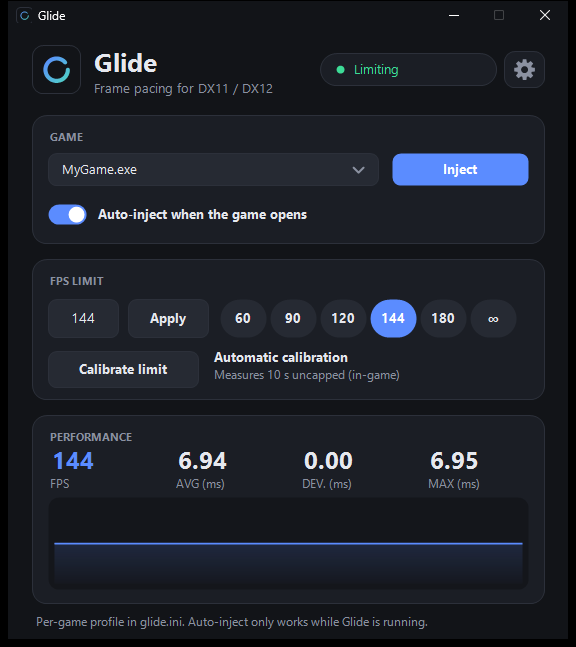
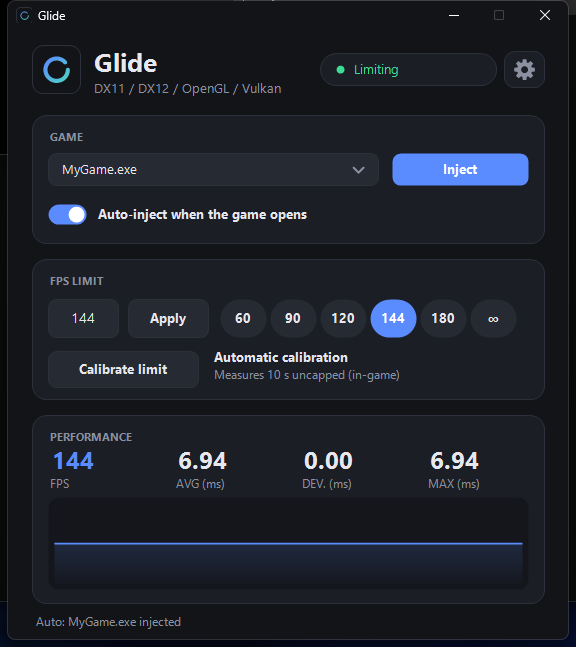
Update README screenshots; About text mentions OpenGL/Vulkan

diff --git a/lang.h b/lang.h
@@ -78,7 +78,7 @@ static const wchar_t* const kStr[S_COUNT][NLANG] = {
 /* UP_ERR */ { L"Could not check for updates", L"No se pudo buscar actualizaciones", L"Não foi possível verificar atualizações", L"更新を確認できませんでした", L"无法检查更新", L"업데이트를 확인할 수 없습니다" },
 /* UP_ERR2 */ { L"Download failed or could not be verified", L"La descarga falló o no se pudo verificar", L"Falha no download ou não foi possível verificar", L"ダウンロードに失敗、または検証できませんでした", L"下载失败或无法验证", L"다운로드 실패 또는 검증 불가" },
 /* AUTOUP */ { L"Check for updates automatically", L"Buscar actualizaciones automáticamente", L"Verificar atualizações automaticamente", L"自動的に更新を確認", L"自动检查更新", L"업데이트 자동 확인" },
-/* ABOUT_DESC */ { L"Frame limiter with precise frame pacing for DX11 / DX12 games.", L"Limitador de FPS con frame pacing preciso para juegos DX11 / DX12.", L"Limitador de FPS com frame pacing preciso para jogos DX11 / DX12.", L"DX11 / DX12 ゲーム向けの高精度フレームペーシング対応FPSリミッター。", L"面向 DX11 / DX12 游戏的精准帧率节奏限制器。", L"DX11 / DX12 게임용 정밀 프레임 페이싱 FPS 제한 도구." },
+/* ABOUT_DESC */ { L"Frame limiter with precise frame pacing for DX11 / DX12 / OpenGL / Vulkan games.", L"Limitador de FPS con frame pacing preciso para juegos DX11 / DX12 / OpenGL / Vulkan.", L"Limitador de FPS com frame pacing preciso para jogos DX11 / DX12 / OpenGL / Vulkan.", L"DX11 / DX12 / OpenGL / Vulkan ゲーム向けの高精度フレームペーシング対応FPSリミッター。", L"面向 DX11 / DX12 / OpenGL / Vulkan 游戏的精准帧率节奏限制器。", L"DX11 / DX12 / OpenGL / Vulkan 게임용 정밀 프레임 페이싱 FPS 제한 도구." },
 /* CREATED */ { L"Created by %s", L"Creado por %s", L"Criado por %s", L"作者：%s", L"作者：%s", L"제작: %s" },
 /* LICENSE */ { L"Free and open source · MIT License", L"Libre y de código abierto · Licencia MIT", L"Livre e de código aberto · Licença MIT", L"無料・オープンソース · MIT ライセンス", L"免费开源 · MIT 许可证", L"무료 오픈 소스 · MIT 라이선스" },
 /* ISSUES */ { L"Report an issue", L"Reportar un problema", L"Relatar um problema", L"問題を報告", L"报告问题", L"문제 신고" },
